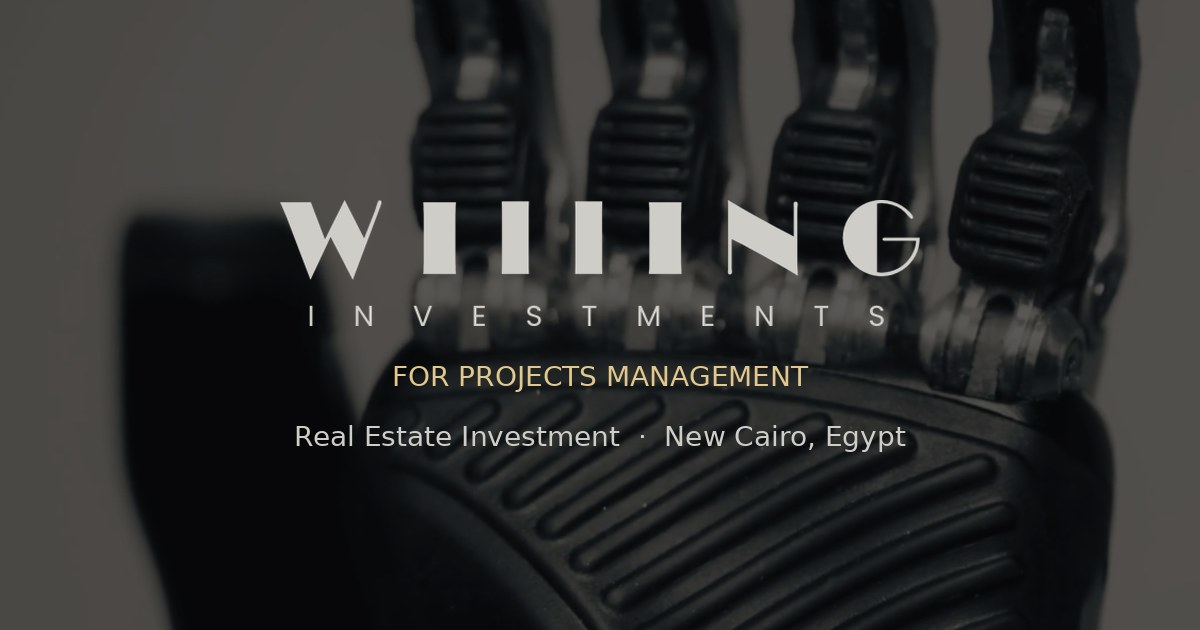
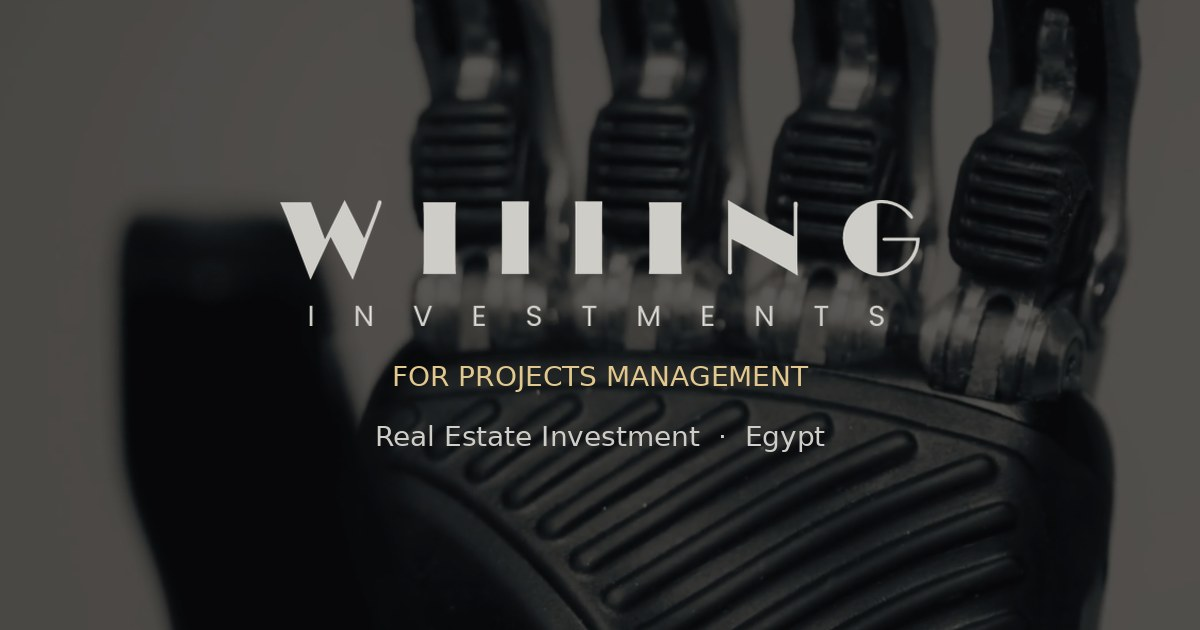
Add files via upload

Changed region(s): [[0.2467, 0.6635, 0.74, 0.7238]]

diff --git a/index.html b/index.html
@@ -3,9 +3,9 @@
 <head>
 <meta charset="UTF-8">
 <meta name="viewport" content="width=device-width, initial-scale=1.0, viewport-fit=cover">
-<title>Willing Investments For Projects Management | Real Estate Investment in New Cairo</title>
-<meta name="description" content="Willing Investments For Projects Management is a real estate investment firm in New Cairo, Egypt, offering project management, asset management, property management, and marketing services.">
-<meta name="keywords" content="Willing Investments, Willing Investments For Projects Management, real estate investment Egypt, real estate investment New Cairo, project management Egypt, asset management Egypt, property management New Cairo, real estate marketing Egypt">
+<title>Willing Investments For Projects Management | Real Estate Investment</title>
+<meta name="description" content="Willing Investments For Projects Management is a real estate investment firm in Egypt, offering project management, asset management, property management, and marketing services.">
+<meta name="keywords" content="Willing Investments, Willing Investments For Projects Management, real estate investment Egypt, project management Egypt, asset management Egypt, property management Egypt, real estate marketing Egypt">
 <meta name="robots" content="index, follow, max-image-preview:large">
 <meta name="author" content="Willing Investments For Projects Management">
 <meta name="theme-color" content="#0b0c0e">
@@ -15,8 +15,8 @@
 
 <meta property="og:type" content="website">
 <meta property="og:locale" content="en_US">
-<meta property="og:title" content="Willing Investments For Projects Management | Real Estate Investment in New Cairo">
-<meta property="og:description" content="Real estate investment, project management, asset management, property management, and marketing services in New Cairo, Egypt.">
+<meta property="og:title" content="Willing Investments For Projects Management | Real Estate Investment">
+<meta property="og:description" content="Real estate investment, project management, asset management, property management, and marketing services in Egypt.">
 <meta property="og:url" content="https://willinginvestments.com/">
 <meta property="og:site_name" content="Willing Investments For Projects Management">
 <meta property="og:image" content="https://willinginvestments.com/og-image.jpg">
@@ -26,7 +26,7 @@
 
 <meta name="twitter:card" content="summary_large_image">
 <meta name="twitter:title" content="Willing Investments For Projects Management">
-<meta name="twitter:description" content="Real estate investment, project management, asset management, property management, and marketing services in New Cairo, Egypt.">
+<meta name="twitter:description" content="Real estate investment, project management, asset management, property management, and marketing services in Egypt.">
 <meta name="twitter:image" content="https://willinginvestments.com/og-image.jpg">
 
 <link rel="preconnect" href="https://fonts.googleapis.com">
@@ -47,12 +47,12 @@
       "url": "https://willinginvestments.com/",
       "logo": "https://willinginvestments.com/logo.png",
       "image": "https://willinginvestments.com/og-image.jpg",
-      "description": "Real estate investment firm in New Cairo, Egypt, offering project management, asset management, property management, and marketing services.",
+      "description": "Real estate investment firm in Egypt, offering project management, asset management, property management, and marketing services.",
       "email": "info@willinginvestments.com",
       "telephone": "+201119668966",
       "address": {
         "@type": "PostalAddress",
-        "streetAddress": "Office OF-F-31, Mindhaus Campus, Building B01 - M05, B01 - G05, Kamelizer Spaces, KM 9 South of Cairo - El Ain El Sokhna Road",
+        "streetAddress": "Office OF-F-31, Mindhaus Campus, Building B01 - M05, B01 - G05, KM 9 South of Cairo - El Ain El Sokhna Road",
         "addressLocality": "New Cairo",
         "addressRegion": "Cairo Governorate",
         "postalCode": "11835",
@@ -127,7 +127,7 @@
           <span class="eyebrow">About Us</span>
           <h2>A real estate partner from investment to delivery</h2>
         </div>
-        <p><strong>Willing Investments For Projects Management</strong> is a real estate investment firm based in New Cairo, Egypt. We help investors, developers, and property owners turn opportunities into successful, well-managed projects.</p>
+        <p><strong>Willing Investments For Projects Management</strong> is a real estate investment firm based in Egypt. We help investors, developers, and property owners turn opportunities into successful, well-managed projects.</p>
         <p>Our services cover the full life cycle of a property: real estate investment, project management, marketing and sales, and ongoing property and asset management. We put clear planning, transparent reporting, and accountability at the center of every engagement.</p>
         <p>Whether you are evaluating a new opportunity or need an experienced team to deliver one, we bring structure, discipline, and care to every stage.</p>
         <div class="stats">
@@ -141,7 +141,7 @@
         <h3>Company Information</h3>
         <dl>
           <div><dt>Legal Business Name</dt><dd>Willing Investments For Projects Management</dd></div>
-          <div><dt>Registered Address</dt><dd>Office OF-F-31, Mindhaus Campus, Building B01 - M05, B01 - G05, Kamelizer Spaces, KM 9 South of Cairo - El Ain El Sokhna Road, New Cairo, Cairo Governorate, 11835, Egypt</dd></div>
+          <div><dt>Registered Address</dt><dd>Office OF-F-31, Mindhaus Campus, Building B01 - M05, B01 - G05, KM 9 South of Cairo - El Ain El Sokhna Road, New Cairo, Cairo Governorate, 11835, Egypt</dd></div>
           <div><dt>Phone</dt><dd><a href="tel:+201119668966">+20 111 966 8 966</a></dd></div>
           <div><dt>Email</dt><dd><a href="mailto:info@willinginvestments.com">info@willinginvestments.com</a></dd></div>
           <div><dt>Industry</dt><dd>Real Estate Investment &amp; Project Management</dd></div>
@@ -227,7 +227,7 @@
           </li>
           <li>
             <span class="icon"><svg width="20" height="20" fill="none" stroke="currentColor" stroke-width="1.8" viewBox="0 0 24 24"><path d="M12 21s-7-6.2-7-12a7 7 0 0 1 14 0c0 5.8-7 12-7 12Z"/><circle cx="12" cy="9" r="2.5"/></svg></span>
-            <div><small>Address</small>Office OF-F-31, Mindhaus Campus, Building B01 - M05, B01 - G05, Kamelizer Spaces, KM 9 South of Cairo - El Ain El Sokhna Road, New Cairo, Cairo Governorate, 11835, Egypt</div>
+            <div><small>Address</small>Office OF-F-31, Mindhaus Campus, Building B01 - M05, B01 - G05, KM 9 South of Cairo - El Ain El Sokhna Road, New Cairo, Cairo Governorate, 11835, Egypt</div>
           </li>
           <li>
             <span class="icon"><svg width="20" height="20" fill="none" stroke="currentColor" stroke-width="1.8" viewBox="0 0 24 24"><path d="M22 16.9v3a2 2 0 0 1-2.2 2 19.8 19.8 0 0 1-8.6-3.1 19.5 19.5 0 0 1-6-6A19.8 19.8 0 0 1 2.1 4.2 2 2 0 0 1 4.1 2h3a2 2 0 0 1 2 1.7c.1 1 .4 1.9.7 2.8a2 2 0 0 1-.5 2.1L8 9.9a16 16 0 0 0 6 6l1.3-1.3a2 2 0 0 1 2.1-.4c.9.3 1.8.6 2.8.7a2 2 0 0 1 1.7 2Z"/></svg></span>
@@ -272,7 +272,7 @@
       <div>
         <h4>Willing Investments For Projects Management</h4>
         <p>Real estate investment, project management, asset management, property management, and marketing.</p>
-        <p>Office OF-F-31, Mindhaus Campus, Building B01 - M05, B01 - G05, Kamelizer Spaces, KM 9 South of Cairo - El Ain El Sokhna Road, New Cairo, Cairo Governorate, 11835, Egypt</p>
+        <p>Office OF-F-31, Mindhaus Campus, Building B01 - M05, B01 - G05, KM 9 South of Cairo - El Ain El Sokhna Road, New Cairo, Cairo Governorate, 11835, Egypt</p>
       </div>
       <div>
         <h4>Company</h4>

diff --git a/terms.html b/terms.html
@@ -32,7 +32,7 @@
   "telephone": "+201119668966",
   "address": {
     "@type": "PostalAddress",
-    "streetAddress": "Office OF-F-31, Mindhaus Campus, Building B01 - M05, B01 - G05, Kamelizer Spaces, KM 9 South of Cairo - El Ain El Sokhna Road",
+    "streetAddress": "Office OF-F-31, Mindhaus Campus, Building B01 - M05, B01 - G05, KM 9 South of Cairo - El Ain El Sokhna Road",
     "addressLocality": "New Cairo",
     "addressRegion": "Cairo Governorate",
     "postalCode": "11835",
@@ -66,7 +66,7 @@
 
 <p>These Terms &amp; Conditions govern your use of willinginvestments.com, which is owned and operated by <strong>Willing Investments For Projects Management</strong>. By using this website, you agree to these terms.</p>
 <h2>1. About Us</h2>
-<p>Willing Investments For Projects Management is a real estate investment and project management firm based in New Cairo, Egypt. The information on this website describes our services in general terms.</p>
+<p>Willing Investments For Projects Management is a real estate investment and project management firm based in Egypt. The information on this website describes our services in general terms.</p>
 <h2>2. Use of the Website</h2>
 <p>You agree to use this website only for lawful purposes and not to interfere with its operation or security.</p>
 <h2>3. No Investment Advice</h2>
@@ -83,7 +83,7 @@
 <p>We may update these terms at any time. Continued use of the website means you accept the updated terms.</p>
 <h2>9. Contact</h2>
 <p>Willing Investments For Projects Management<br>
-Office OF-F-31, Mindhaus Campus, Building B01 - M05, B01 - G05, Kamelizer Spaces, KM 9 South of Cairo - El Ain El Sokhna Road, New Cairo, Cairo Governorate, 11835, Egypt<br>
+Office OF-F-31, Mindhaus Campus, Building B01 - M05, B01 - G05, KM 9 South of Cairo - El Ain El Sokhna Road, New Cairo, Cairo Governorate, 11835, Egypt<br>
 Email: <a href="mailto:info@willinginvestments.com">info@willinginvestments.com</a><br>
 Phone: <a href="tel:+201119668966">+20 111 966 8 966</a></p>
 
@@ -96,7 +96,7 @@ Phone: <a href="tel:+201119668966">+20 111 966 8 966</a></p>
       <div>
         <h4>Willing Investments For Projects Management</h4>
         <p>Real estate investment, project management, asset management, property management, and marketing.</p>
-        <p>Office OF-F-31, Mindhaus Campus, Building B01 - M05, B01 - G05, Kamelizer Spaces, KM 9 South of Cairo - El Ain El Sokhna Road, New Cairo, Cairo Governorate, 11835, Egypt</p>
+        <p>Office OF-F-31, Mindhaus Campus, Building B01 - M05, B01 - G05, KM 9 South of Cairo - El Ain El Sokhna Road, New Cairo, Cairo Governorate, 11835, Egypt</p>
       </div>
       <div>
         <h4>Company</h4>
@@ -118,7 +118,7 @@ Phone: <a href="tel:+201119668966">+20 111 966 8 966</a></p>
     </div>
     <div class="copyright">
       <span>© <span class="year">2026</span> Willing Investments For Projects Management. All rights reserved.</span>
-      <span>willinginvestments.com</span>
+
     </div>
   </div>
 </footer>

diff --git a/privacy-policy.html b/privacy-policy.html
@@ -32,7 +32,7 @@
   "telephone": "+201119668966",
   "address": {
     "@type": "PostalAddress",
-    "streetAddress": "Office OF-F-31, Mindhaus Campus, Building B01 - M05, B01 - G05, Kamelizer Spaces, KM 9 South of Cairo - El Ain El Sokhna Road",
+    "streetAddress": "Office OF-F-31, Mindhaus Campus, Building B01 - M05, B01 - G05, KM 9 South of Cairo - El Ain El Sokhna Road",
     "addressLocality": "New Cairo",
     "addressRegion": "Cairo Governorate",
     "postalCode": "11835",
@@ -92,7 +92,7 @@
 <p>We may update this Privacy Policy from time to time. The latest version will always be posted on this page.</p>
 <h2>9. Contact Us</h2>
 <p>Willing Investments For Projects Management<br>
-Office OF-F-31, Mindhaus Campus, Building B01 - M05, B01 - G05, Kamelizer Spaces, KM 9 South of Cairo - El Ain El Sokhna Road, New Cairo, Cairo Governorate, 11835, Egypt<br>
+Office OF-F-31, Mindhaus Campus, Building B01 - M05, B01 - G05, KM 9 South of Cairo - El Ain El Sokhna Road, New Cairo, Cairo Governorate, 11835, Egypt<br>
 Email: <a href="mailto:info@willinginvestments.com">info@willinginvestments.com</a><br>
 Phone: <a href="tel:+201119668966">+20 111 966 8 966</a></p>
 
@@ -105,7 +105,7 @@ Phone: <a href="tel:+201119668966">+20 111 966 8 966</a></p>
       <div>
         <h4>Willing Investments For Projects Management</h4>
         <p>Real estate investment, project management, asset management, property management, and marketing.</p>
-        <p>Office OF-F-31, Mindhaus Campus, Building B01 - M05, B01 - G05, Kamelizer Spaces, KM 9 South of Cairo - El Ain El Sokhna Road, New Cairo, Cairo Governorate, 11835, Egypt</p>
+        <p>Office OF-F-31, Mindhaus Campus, Building B01 - M05, B01 - G05, KM 9 South of Cairo - El Ain El Sokhna Road, New Cairo, Cairo Governorate, 11835, Egypt</p>
       </div>
       <div>
         <h4>Company</h4>
@@ -127,7 +127,7 @@ Phone: <a href="tel:+201119668966">+20 111 966 8 966</a></p>
     </div>
     <div class="copyright">
       <span>© <span class="year">2026</span> Willing Investments For Projects Management. All rights reserved.</span>
-      <span>willinginvestments.com</span>
+
     </div>
   </div>
 </footer>
